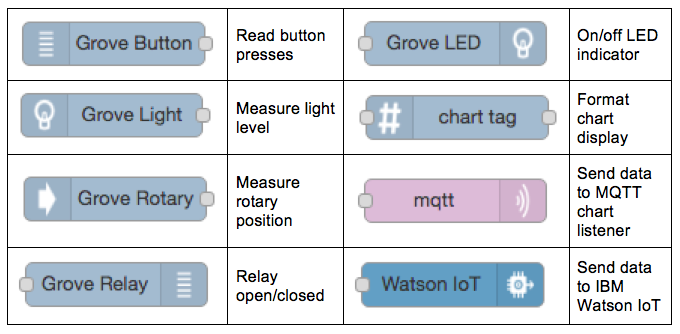
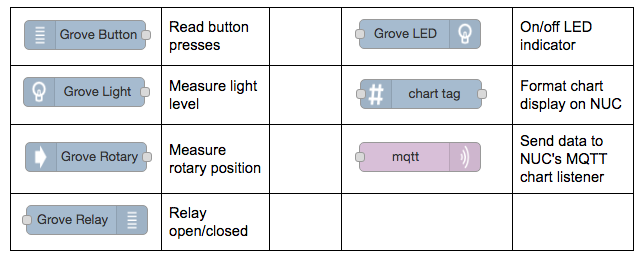
removed watson references

diff --git a/Getting Started With Node-Red and Arduino 101 with the Grove Shield/README.md b/Getting Started With Node-Red and Arduino 101 with the Grove Shield/README.md
@@ -52,7 +52,7 @@ Along the left side of the Node-RED screen you'll see a series of nodes. These a
 
 ![](images/node-red-contrib-upm-nodes.png)
 
-Drag and drop nodes onto the canvas and arrange them as shown below. For some of the nodes we'll need multiple copies. Use your mouse to connect wires between the nodes as shown. We'll use the Watson IoT node later so don't include it for now.
+Drag and drop nodes onto the canvas and arrange them as shown below. For some of the nodes we'll need multiple copies. Use your mouse to connect wires between the nodes as shown.
 
 ![](images/node-red-flow.png)
 
